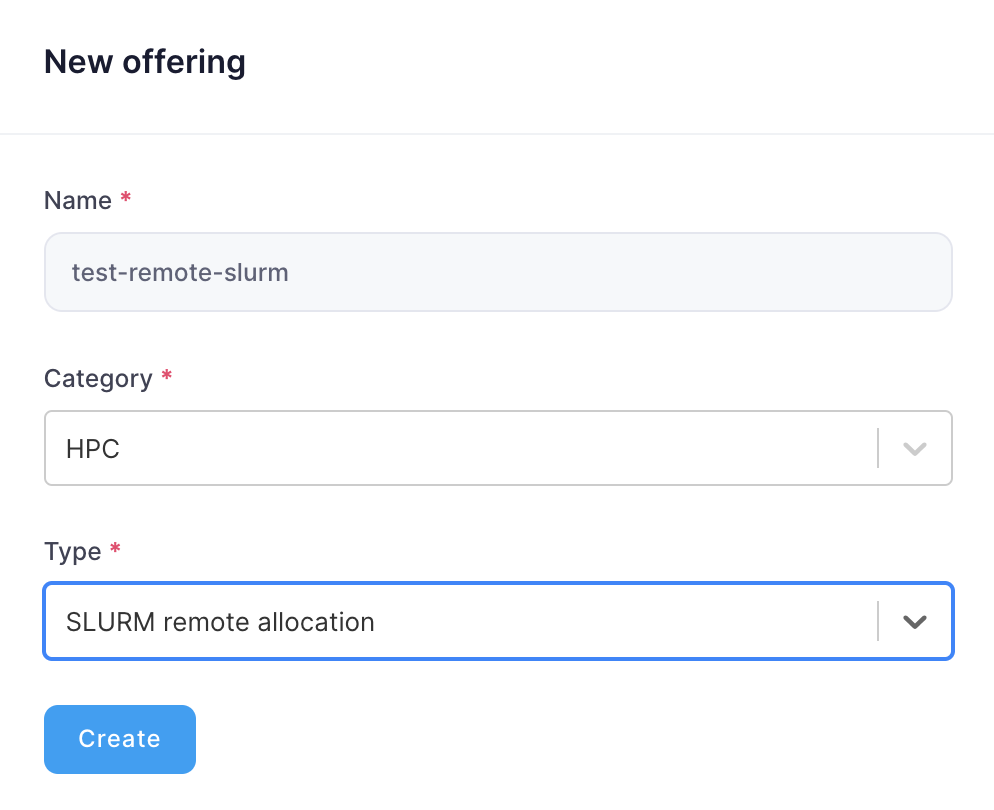
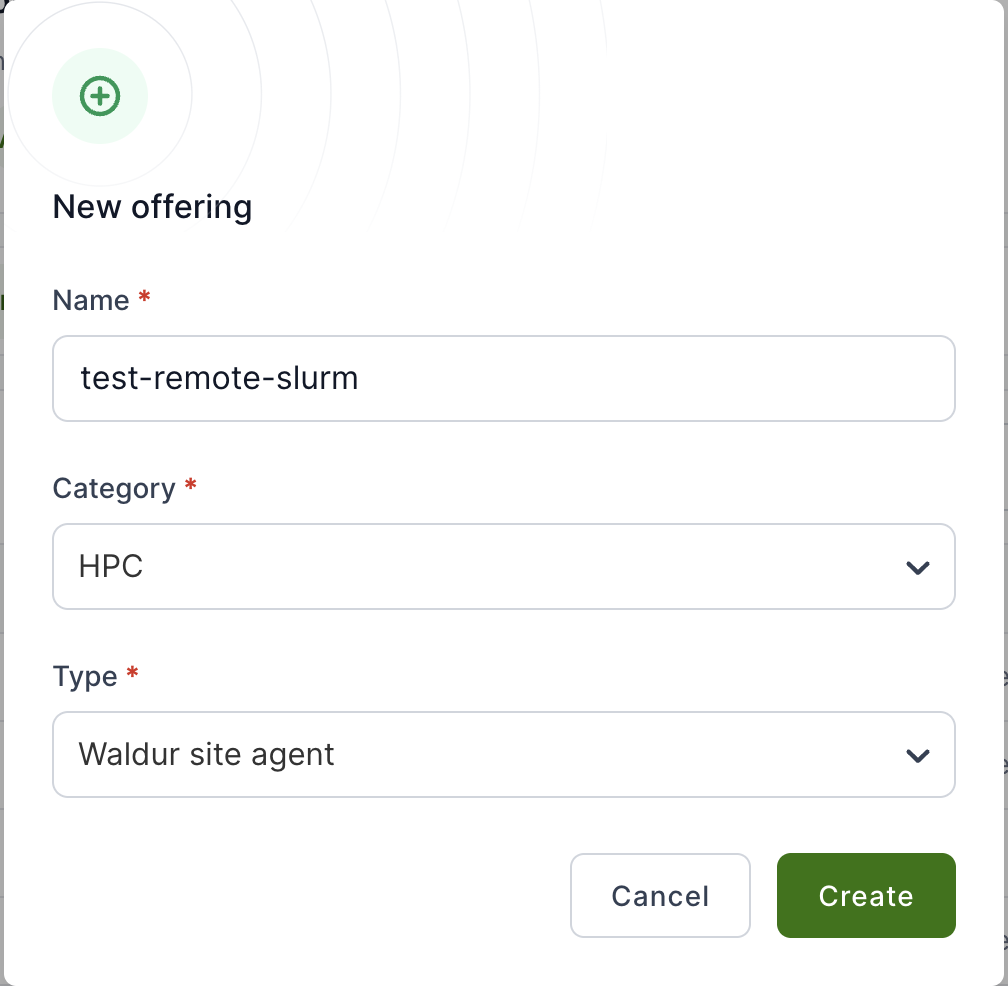
Fix diagram, update text

diff --git a/README.md b/README.md
@@ -12,7 +12,7 @@ For now, the agent supports only SLURM and MOAB clusters as a service backend.
 
 Agent is a stateless application, which is deployed
 on a machine with access to backend data.
-It consists of 4 sub-applications:
+It supports 4 modes:
 
 - `agent-order-process`, which fetches ordering data from Waldur and updates
   a state of backend object correspondingly;
@@ -27,15 +27,13 @@ It consists of 4 sub-applications:
 
 Code-wise, the agent consists of the main python module called `waldur-site-agent`
 and set of plugins with implementation for different backends
-(example `waldur-site-agent-slurm`).
+(for example, `waldur-site-agent-slurm`).
 The main module contains the configuration for running the
 application, shared utils and abstract classes for backends.
 A plugin should contain implementation of the abstract classes exposing them
 via entry-points in the respecting `pyproject.toml` file.
 Each plugin depends on the main module,
 while this module uses plugin classes via entry-points.
-
-## Plugin architecture
 
 ### Core architecture & plugin system
 
@@ -137,7 +135,7 @@ graph TB
     class WALDUR,BACKENDS,MQTT external
 ```
 
-#### Key plugin features
+### Key plugin features
 
 - **Automatic Discovery**: Plugins are automatically discovered via Python entry points
 - **Modular Backends**: Each backend (SLURM, MOAB, MUP, etc) is a separate plugin package
@@ -145,7 +143,7 @@ graph TB
 - **Extensible**: External developers can create custom backends by implementing `BaseBackend`
 - **Multi-Backend Support**: Different backends for order processing, reporting, and membership sync
 
-#### Built-in plugin structure
+### Built-in plugin structure
 
 ```text
 plugins/{backend_name}/
@@ -244,10 +242,10 @@ As a service provider owner, you should create a new offering in the marketplace
 
 - Go to `Service Provider` section of the organization
   and open offering creation menu
-- Input a name, choose a category, select `SLURM remote allocation`
+- Input a name, choose a category, select `Waldur site agent`
   from the drop-down list on the bottom and click `Create` button
 
-![offering-creation](img/remote-slurm-offering.png)
+![offering-creation](img/offering-creation.png)
 
 - Open the offering page, choose `Edit` tab, click `Accounting` section,
   choose `Accounting plans` from the drop-down list and create a plan:
